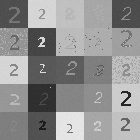
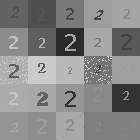
Improve color similarity hueristic

diff --git a/PhotoOCRTraining/src/Generator.java b/PhotoOCRTraining/src/Generator.java
@@ -54,7 +54,7 @@ public class Generator extends JFrame {
 		double u1 = -.14713*r1 + -.28886*g1 + .436*b1; 
 		double c1 = .615*r1 + -.51499*g1 + -.10001*b1;
 		
-		int r2 = color2.getRed() , g2 = color1.getGreen() , b2 = color2.getBlue();
+		int r2 = color2.getRed() , g2 = color2.getGreen() , b2 = color2.getBlue();
 		double y2 = .299*r2 + .587*g2 + .114*b2;
 		double u2 = -.14713*r2 + -.28886*g2 + .436*b2; 
 		double c2 = .615*r2 + -.51499*g2 + -.10001*b2;
@@ -63,7 +63,10 @@ public class Generator extends JFrame {
 		double du = u1 - u2;
 		double dc = c1 - c2;
 		
-		return dy*dy + du*du + dc*dc <= 20*20*20;
+		int dr = Math.abs( r1 - r2 );
+		int dg = Math.abs( g1 - g2 );
+		int db = Math.abs( b1 - b2 );
+		return dr <= 30 || dg <= 30 || db <= 30 || (du*du + dc*dc <= 100*100) ;
 	}
 	
 	public void generate( int digit) {
@@ -76,9 +79,24 @@ public class Generator extends JFrame {
 		}
 		this.pnlDigit.setBackgroundColor( backgroundColor );
 		this.pnlDigit.setFontColor( fontColor );
+		System.out.println( backgroundColor.toString() + " " + fontColor.toString() );
 		this.pnlDigit.setFont( FontManager.getRandomFont( true , 12 , 24 ) );
 		this.pnlDigit.setDigit( digit );
-		this.pnlDigit.repaint();
+		
+		try {
+			SwingUtilities.invokeAndWait( new Runnable() {
+
+				@Override
+				public void run() {
+					pnlDigit.repaint();
+				}
+			} 
+			);
+		} catch (InvocationTargetException e) {
+			e.printStackTrace();
+		} catch (InterruptedException e) {
+			e.printStackTrace();
+		}
 	}
 	
 	/**
@@ -95,20 +113,6 @@ public class Generator extends JFrame {
 		Graphics2D g = rtn.createGraphics();
 		for ( int i=0 ; i<n ; ++i ) {
 			generate( digit );
-			try {
-				SwingUtilities.invokeAndWait( new Runnable() {
-
-					@Override
-					public void run() {
-						pnlDigit.repaint();
-					}
-				} 
-				);
-			} catch (InvocationTargetException e) {
-				e.printStackTrace();
-			} catch (InterruptedException e) {
-				e.printStackTrace();
-			}
 			BufferedImage toStitch = this.pnlDigit.img;
 			int currRow = i / cols;
 			int currCol = i % cols;
@@ -168,7 +172,7 @@ public class Generator extends JFrame {
 		}
 		
 		private void addNoiseToImage() {
-			int noiseMagnitude = 3;
+			int noiseMagnitude = 1;
 			for ( int x=0 ; x<this.img.getWidth() ; ++x ) {
 				for ( int y=0 ; y<this.img.getHeight() ; ++y ) {
 					int colorBefore = this.img.getRGB( x , y );

diff --git a/PhotoOCRTraining/src/FontManager.java b/PhotoOCRTraining/src/FontManager.java
@@ -37,7 +37,6 @@ public class FontManager {
 				fonts.add( font );
 			}
 		}
-		
 	}
 	
 	public static Font getRandomFont() {
@@ -45,15 +44,10 @@ public class FontManager {
 		return fonts.get( randIdx ).deriveFont( Font.PLAIN , 12.0f );
 	}
 	
-	public static Font getRandomFont( boolean allowBold , int sizeMin , int sizeMax ) {
+	public static Font getRandomFont( boolean useBold , int sizeMin , int sizeMax ) {
 		int randIdx = (int)(Math.random()*fonts.size());
 		int randSize = sizeMin + (int)(Math.random()*(sizeMax-sizeMin));
-		int randType = Font.PLAIN;
-		if ( allowBold ) {
-			if ( Math.random() > 0.5 ) {
-				randType = Font.BOLD;
-			}
-		}
+		int randType = useBold ? Font.BOLD : Font.PLAIN;
 		return fonts.get( randIdx ).deriveFont( randType , randSize );
 	}
 }
